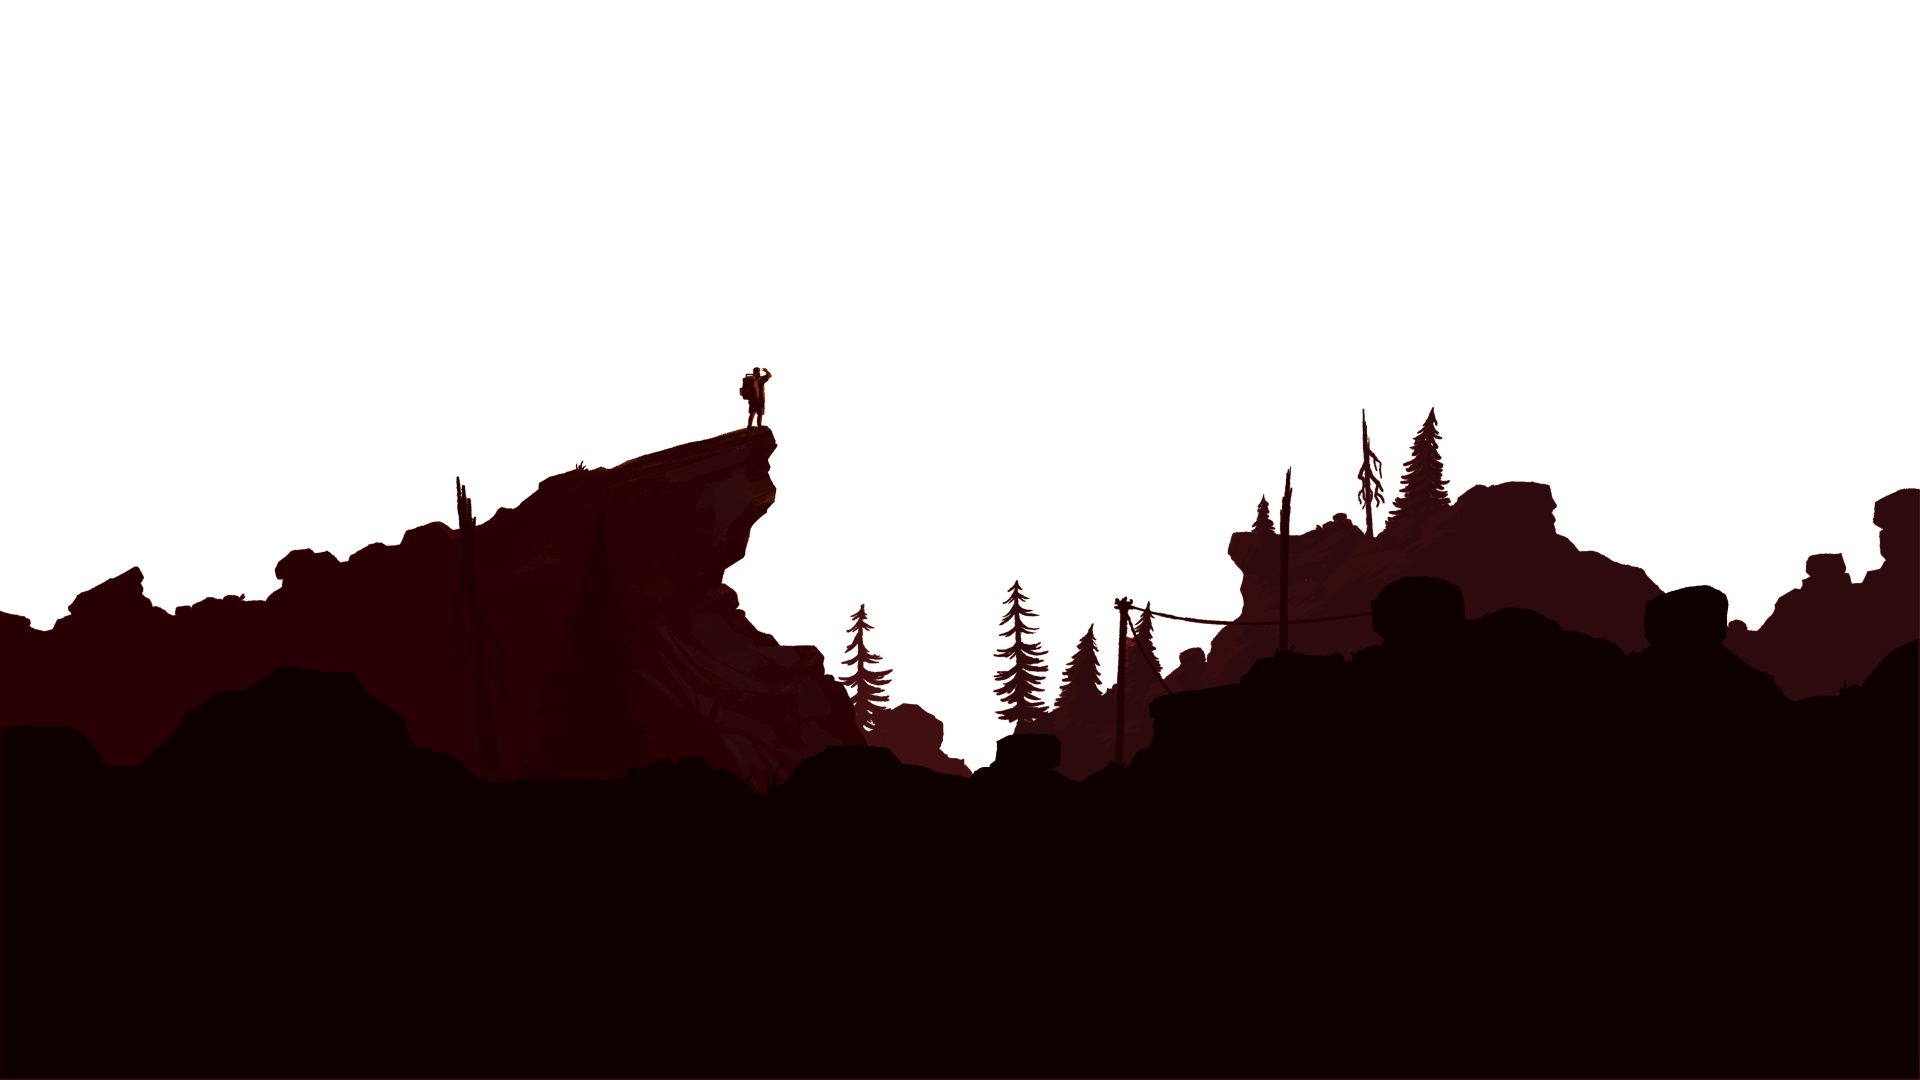
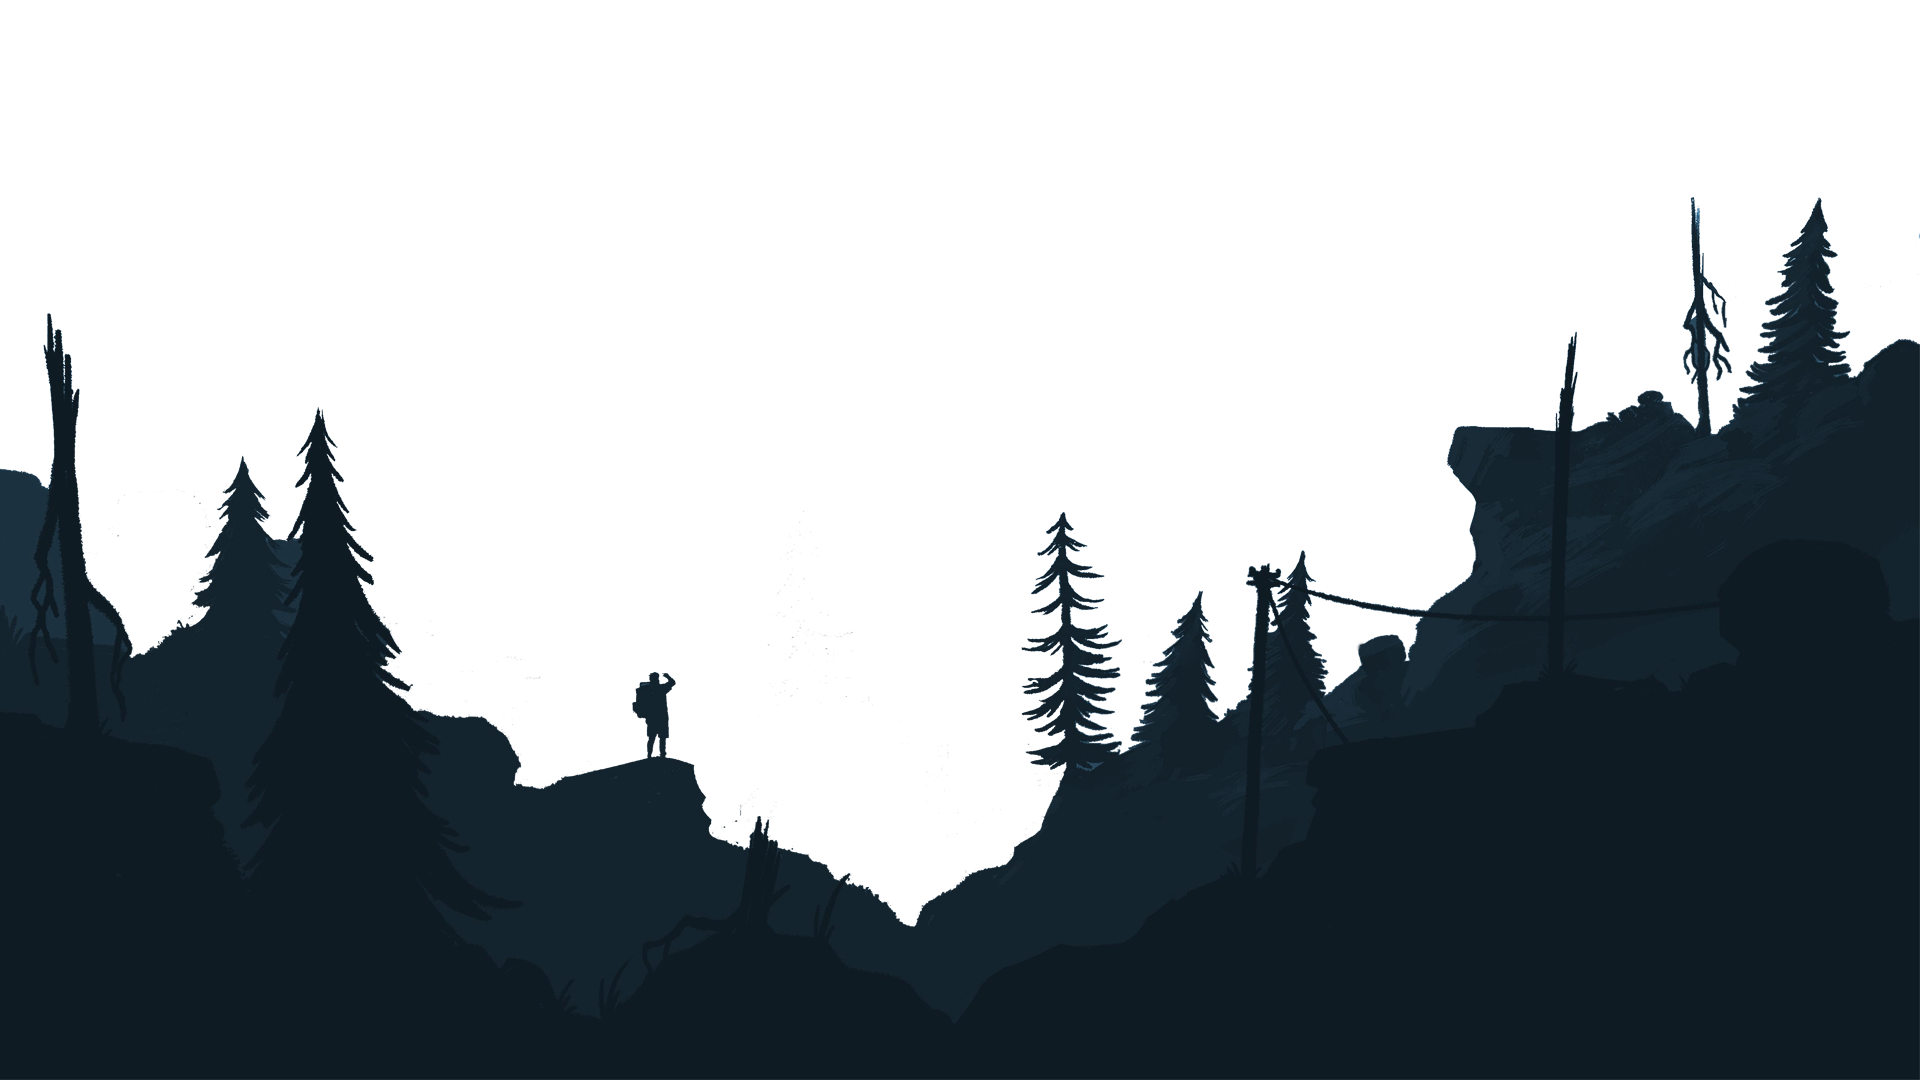
update rellax v1.2

diff --git a/public/css/style.css b/public/css/style.css
@@ -18,18 +18,22 @@ main {
 .header-site {
   width: 100%;
   height: 5em;
+  background-color: #bfd5e3;
+}
+.header-site .container {
+  height: 100%;
 }
 .header-site .logo {
   z-index: 10;
 }
 .header-site .logo a {
-  font-size: 20px;
+  font-size: 22px;
   color: #fff;
   font-family: sans-serif;
 }
 .header-site .logo a span {
-  color: #93cb52;
-  font-size: 26px;
+  color: #f9cb52;
+  font-size: 28px;
 }
 .header-site .grid__item {
   display: none;
@@ -37,20 +41,31 @@ main {
 /* //////////////Home Slider///////////// */
 .homeSlider {
   width: 100%;
-  height: 36em;
-  margin-top: -7em;
+  height: 19em;
+  overflow: hidden;
   position: relative;
-  background-color: #0e0001;
+  background-color: #bfd5e3;
   z-index: -10;
 }
 .homeSlider .layer-1 {
   position: absolute;
-  width: 100% !important;
   z-index: 2;
 }
 .homeSlider .layer-2 {
   position: absolute;
-  width: 100% !important;
+  z-index: 1;
+}
+.homeSlider .layer-1,
+.homeSlider .layer-2 {
+  width: 40em;
+}
+.color-helper {
+  display: none;
+  position: absolute;
+  bottom: 0;
+  background-color: #0e1b23;
+  width: 100%;
+  height: 5em;
   z-index: 1;
 }
 .homeSlider .wrap {
@@ -93,24 +108,71 @@ main {
   font-size: 1em;
 }
 /* //////////Responsive///////////////// */
+@media print, screen and (min-width: 320px) {
+  .homeSlider {
+    height: 22em;
+  }
+}
+@media print, screen and (min-width: 600px) {
+  .homeSlider {
+    height: 27em;
+  }
+  .homeSlider .layer-1,
+  .homeSlider .layer-2 {
+    width: 49em;
+  }
+}
+@media print, screen and (min-width: 780px) {
+  .homeSlider {
+    height: 39em;
+  }
+  .homeSlider .layer-1,
+  .homeSlider .layer-2 {
+    width: 63em;
+  }
+}
 @media print, screen and (min-width: 1000px) {
   .homeSlider {
-    height: 40em;
+    height: 46em;
+  }
+  .homeSlider .layer-1,
+  .homeSlider .layer-2 {
+    width: 76em;
   }
 }
 @media print, screen and (min-width: 1200px) {
   .homeSlider {
-    height: 44em;
+    height: 47em;
+    margin-top: -5em;
+  }
+  .homeSlider .layer-1,
+  .homeSlider .layer-2 {
+    width: 100%;
   }
 }
-@media print, screen and (min-width: 1400px) {
+@media print, screen and (min-width: 1300px) {
   .homeSlider {
     height: 50em;
   }
 }
+@media print, screen and (min-width: 1400px) {
+  .homeSlider {
+    height: 54em;
+  }
+}
+@media print, screen and (min-width: 1600px) {
+  .homeSlider {
+    height: 61em;
+  }
+}
 @media print, screen and (min-width: 1700px) {
   .homeSlider {
-    height: 57em;
+    height: 64em;
+  }
+}
+@media print, screen and (min-width: 1800px) {
+  .homeSlider {
+    height: 70em;
   }
 }
 /* ///////Mobile Icon/////////// */
@@ -149,7 +211,7 @@ main {
   transition: .2s ease-in-out;
 }
 #nav-icon.open span {
-  background: #93cb52;
+  background: #f9cb52;
 }
 #nav-icon span:nth-child(even) {
   left: 50%;
@@ -269,8 +331,8 @@ main {
   #nav-icon {
     display: none;
   }
-  .header-site .grid__item
-  {
+  .header-site .grid__item,
+  .color-helper {
     display: block;
   }
   .homeSlider .wrap.down {
@@ -292,7 +354,7 @@ main {
   font-size: 1.3em;
 }
 .aboutUs{
-  background-color: #0e0001;
+  background-color: #0e1b23;
   padding-bottom: 0;
   color: #fff;
   z-index: 15;

diff --git a/public/js/main.js b/public/js/main.js
@@ -1,16 +1,19 @@
 //////////////Mobile Navigation/////////////////// 
 let mobileIcon = $('#nav-icon');
 let mobileNav = $('.mobile-nav');
+let headerSite = $('.header-site');
 $(document).ready(function () {
   $(mobileIcon).click(() => {
     if(!$(mobileIcon).hasClass('open')) {
       $(mobileIcon).addClass('open');
       $(mobileNav).addClass('open');
-      $('.homeSlider').css('margin-top', 0);
+      // $('.homeSlider').css('margin-top', 0);
+      $(headerSite).css('background-color', '#000');
     } else {
       $(mobileIcon).removeClass('open');
       $(mobileNav).removeClass('open');
-      $('.homeSlider').css('margin-top', '-7em');
+      // $('.homeSlider').css('margin-top', '-7em');
+      $(headerSite).css('background-color', '#bfd5e3');
     }
   });
 });

diff --git a/public/plugin/home/particleEffectButton/particleEffectButton.css b/public/plugin/home/particleEffectButton/particleEffectButton.css
@@ -55,7 +55,7 @@
   height: 2.2em;
   cursor: pointer;
   border-radius: 7px;
-  background: #93cb52;
+  background: #f9cb52;
   color: #fff;
   border: 0;
 }
